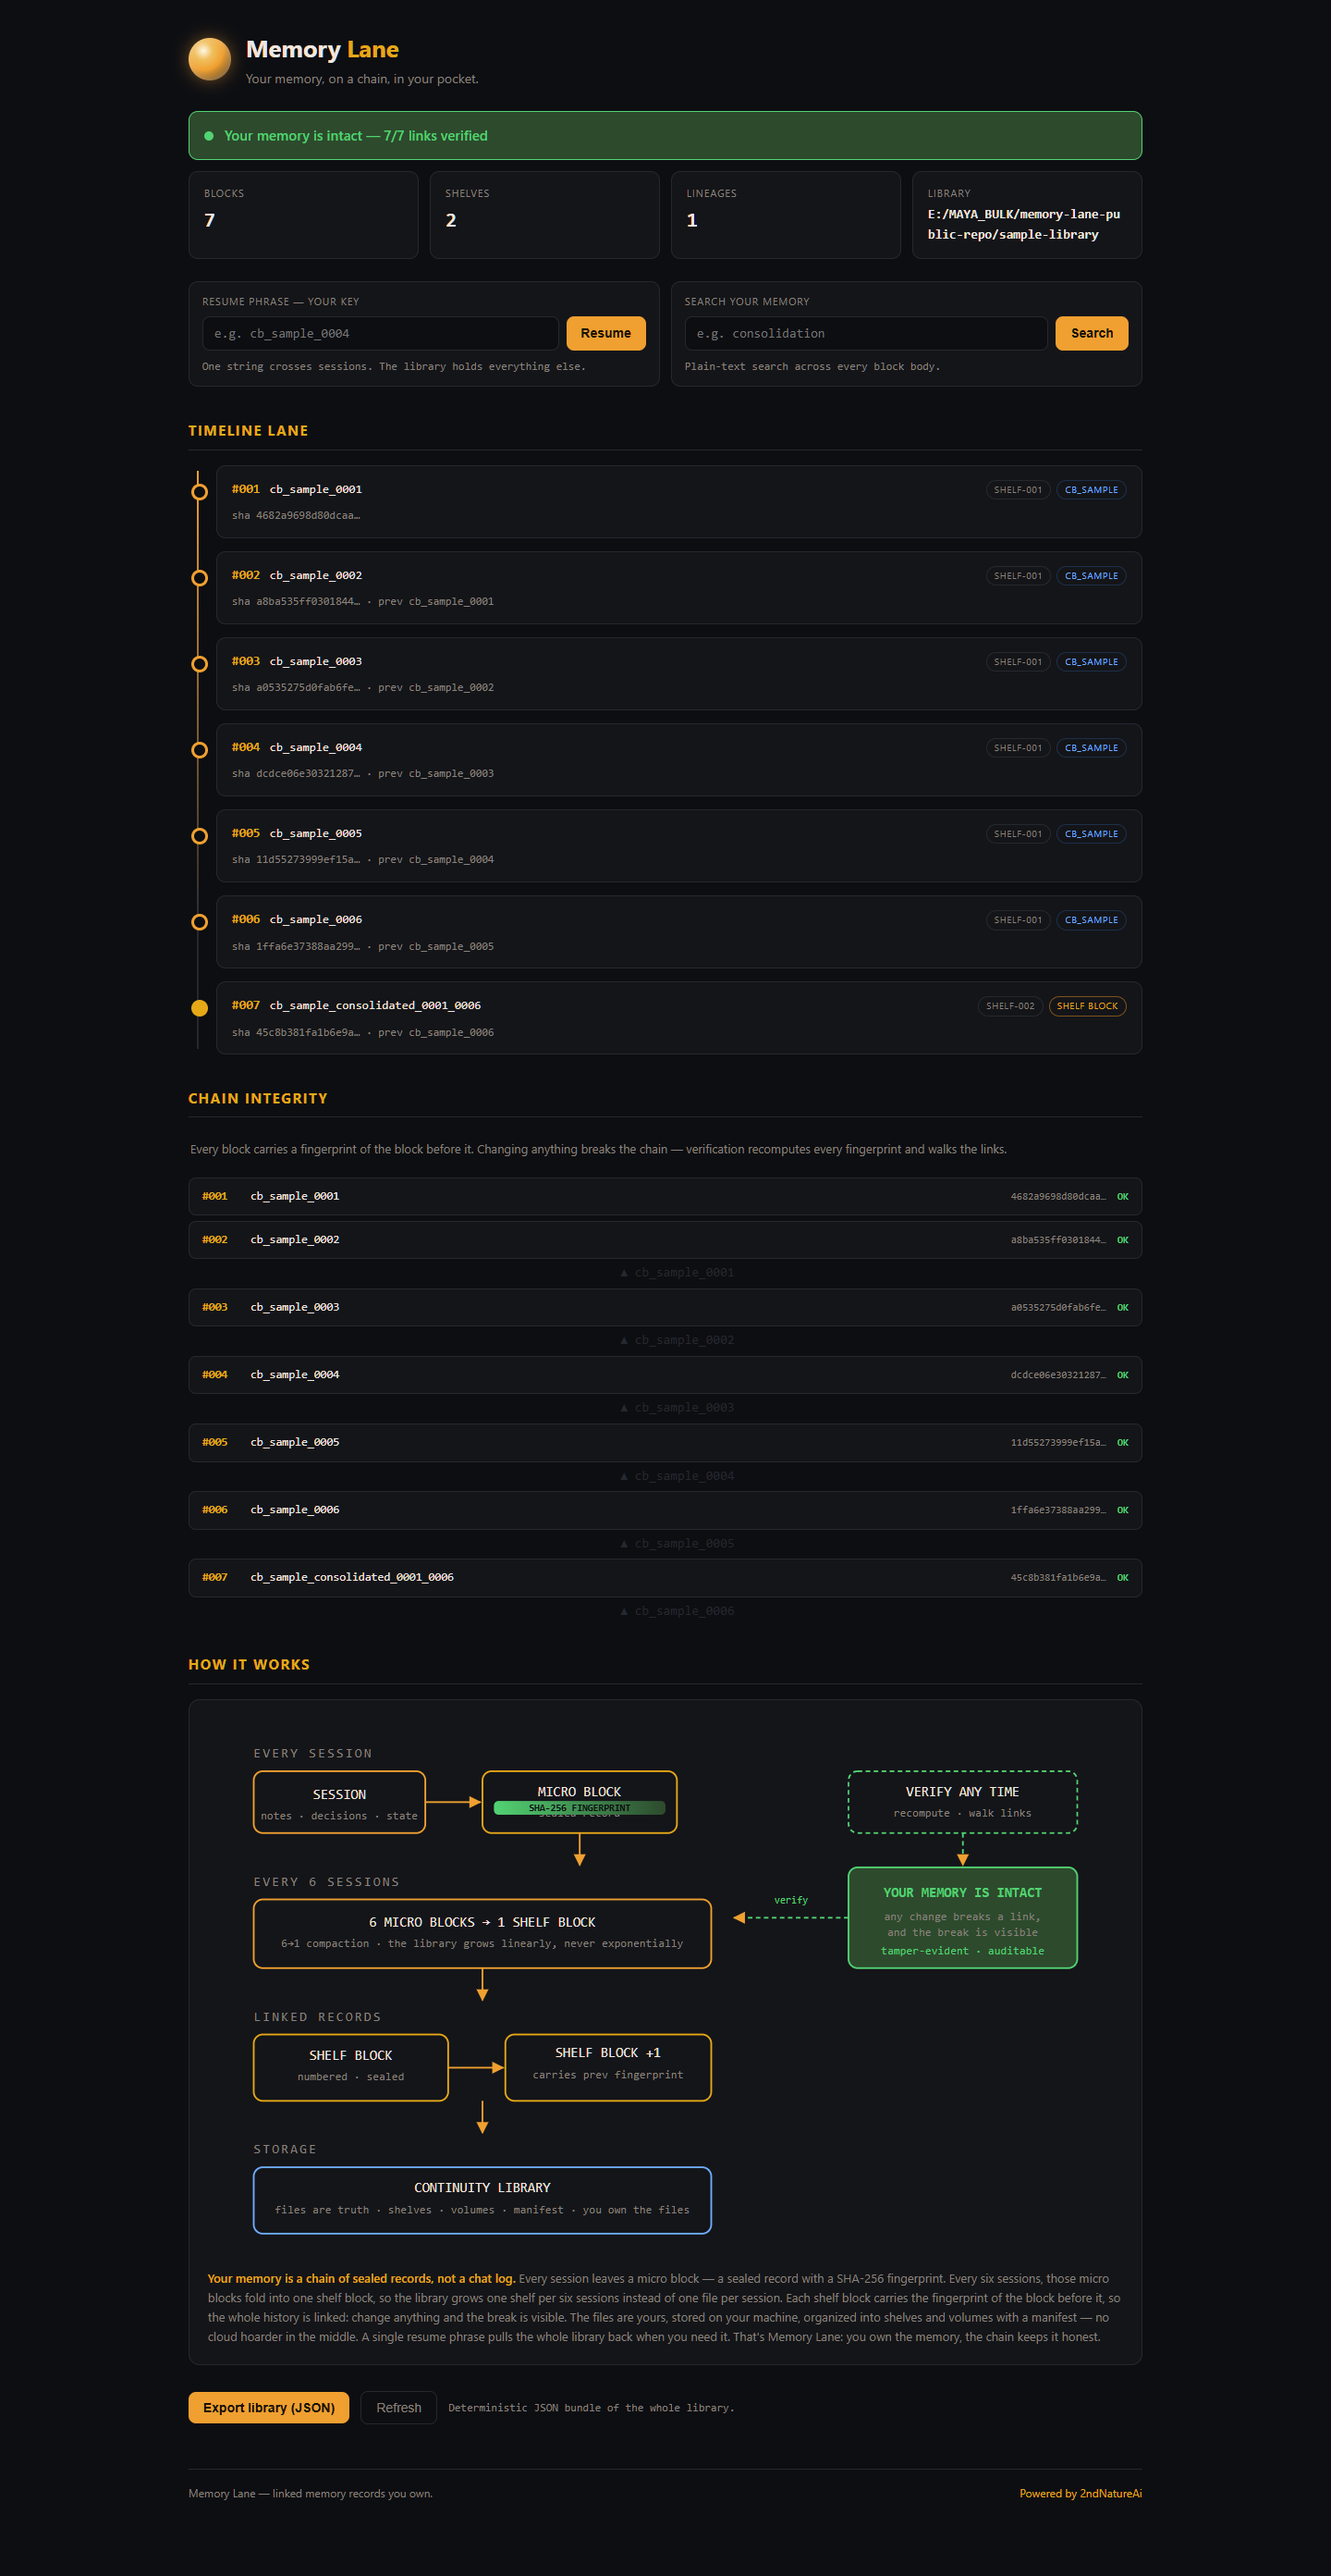
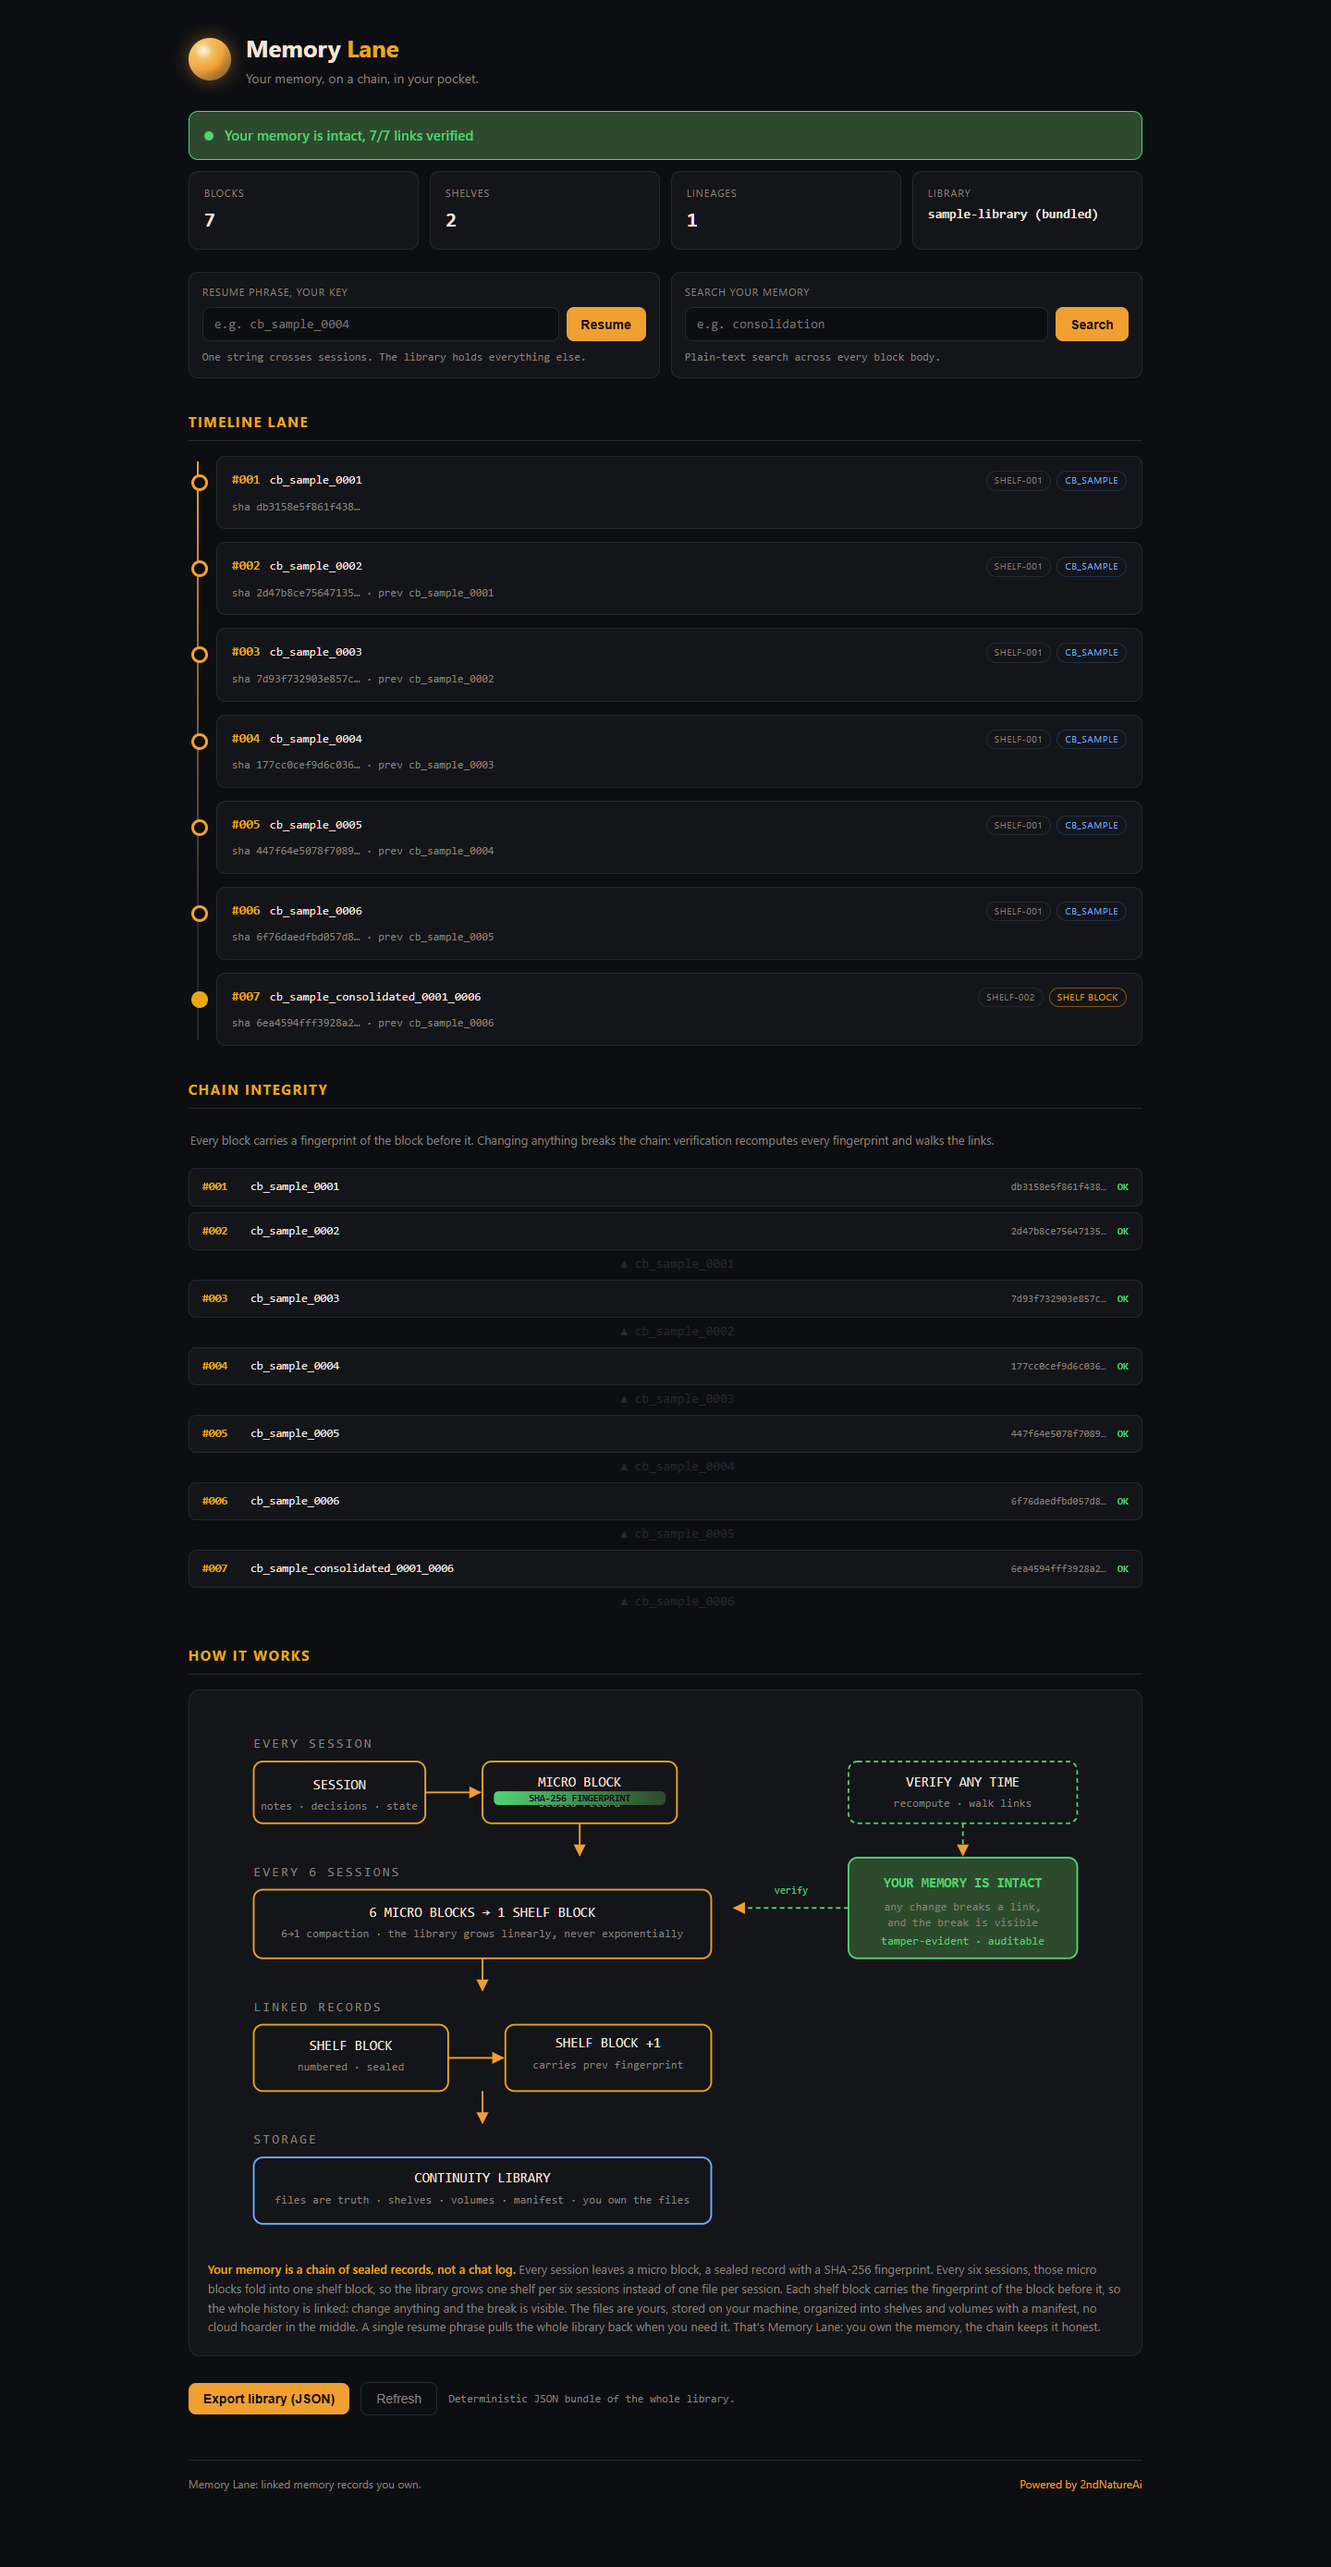
audit: public-safe pass — remove internal vocab from sample, machine-agnostic library label, support section, license fix, em-dash compliance, regression tests, drop machine-path dev tool

diff --git a/public/memory-lane.html b/public/memory-lane.html
@@ -3,7 +3,7 @@
 <head>
 <meta charset="UTF-8">
 <meta name="viewport" content="width=device-width, initial-scale=1.0">
-<title>Memory Lane — your memory, on a chain, in your pocket</title>
+<title>Memory Lane: your memory, on a chain, in your pocket</title>
 <style>
   :root {
     --bg: #0d0e12;
@@ -198,7 +198,7 @@
 
   <div class="controls">
     <div class="control">
-      <div class="label">Resume phrase — your key</div>
+      <div class="label">Resume phrase, your key</div>
       <div class="row">
         <input type="text" id="resumeInput" placeholder="e.g. cb_sample_0004">
         <button id="resumeBtn">Resume</button>
@@ -221,7 +221,7 @@
   <div class="lane" id="lane"><div class="empty">Loading…</div></div>
 
   <h2>Chain Integrity</h2>
-  <p class="empty" style="margin-bottom:12px;">Every block carries a fingerprint of the block before it. Changing anything breaks the chain — verification recomputes every fingerprint and walks the links.</p>
+  <p class="empty" style="margin-bottom:12px;">Every block carries a fingerprint of the block before it. Changing anything breaks the chain: verification recomputes every fingerprint and walks the links.</p>
   <div id="chainView"><div class="empty">Loading…</div></div>
 
   <h2>How It Works</h2>
@@ -301,7 +301,7 @@
       <text x="510" y="162" text-anchor="middle" fill="#52d273" font-size="9" font-family="monospace">verify</text>
     </svg>
     <div class="flow-caption">
-      <b>Your memory is a chain of sealed records, not a chat log.</b> Every session leaves a micro block — a sealed record with a SHA-256 fingerprint. Every six sessions, those micro blocks fold into one shelf block, so the library grows one shelf per six sessions instead of one file per session. Each shelf block carries the fingerprint of the block before it, so the whole history is linked: change anything and the break is visible. The files are yours, stored on your machine, organized into shelves and volumes with a manifest — no cloud hoarder in the middle. A single resume phrase pulls the whole library back when you need it. That's Memory Lane: you own the memory, the chain keeps it honest.
+      <b>Your memory is a chain of sealed records, not a chat log.</b> Every session leaves a micro block, a sealed record with a SHA-256 fingerprint. Every six sessions, those micro blocks fold into one shelf block, so the library grows one shelf per six sessions instead of one file per session. Each shelf block carries the fingerprint of the block before it, so the whole history is linked: change anything and the break is visible. The files are yours, stored on your machine, organized into shelves and volumes with a manifest, no cloud hoarder in the middle. A single resume phrase pulls the whole library back when you need it. That's Memory Lane: you own the memory, the chain keeps it honest.
     </div>
   </div>
 
@@ -312,7 +312,7 @@
   </div>
 
   <footer>
-    <span>Memory Lane — linked memory records you own.</span>
+    <span>Memory Lane: linked memory records you own.</span>
     <span class="powered">Powered by 2ndNatureAi</span>
   </footer>
 </div>
@@ -345,9 +345,9 @@ async function loadStatus() {
     $('sLineages').textContent = s.stats.lineageCount;
     $('sLibrary').textContent = s.library.replace(/\\/g, '/');
     if (s.chain.intact) {
-      setVerdict('good', 'Your memory is intact — ' + s.chain.okCount + '/' + s.chain.total + ' links verified');
+      setVerdict('good', 'Your memory is intact, ' + s.chain.okCount + '/' + s.chain.total + ' links verified');
     } else if (s.chain.status === 'unchecked') {
-      setVerdict('neutral', 'Chain verified except ' + s.chain.unchecked + ' unverifiable link(s) — no recorded fingerprint to compare');
+      setVerdict('neutral', 'Chain verified except ' + s.chain.unchecked + ' unverifiable link(s), no recorded fingerprint to compare');
     } else {
       setVerdict('bad', 'Chain issues: ' + s.chain.issues + ' of ' + s.chain.total + ' blocks need attention');
     }
@@ -425,7 +425,7 @@ async function loadChain() {
         <div class="chain-row">
           <span class="cnum">#${String(b.lib_id).padStart(3,'0')}</span>
           <span class="cbid">${esc(b.block_id)}</span>
-          <span class="csha">${esc(b.computedSha || '—')}…</span>
+          <span class="csha">${esc(b.computedSha || 'n/a')}…</span>
           <span class="cstat ${ok ? 'ok' : 'issue'}">${ok ? 'ok' : esc(b.status) + detail}</span>
         </div>`;
       if (b.prevBlockId && ok) {
@@ -447,7 +447,7 @@ async function doResume() {
   try {
     const d = await j('/api/resume?phrase=' + encodeURIComponent(phrase));
     if (d.found && d.blocks && d.blocks.length) {
-      box.innerHTML = '<div class="empty" style="margin-bottom:8px;">Resume phrase found — ' + d.blocks.length + ' block(s). Scroll to the timeline below.</div>' +
+      box.innerHTML = '<div class="empty" style="margin-bottom:8px;">Resume phrase found: ' + d.blocks.length + ' block(s). Scroll to the timeline below.</div>' +
         d.blocks.map((b) => `<div class="result" onclick="location.hash='#';document.querySelector('[data-id=&quot;' + ${b.lib_id} + '&quot;]').scrollIntoView({behavior:'smooth'})"><span class="rid">#${String(b.lib_id).padStart(3,'0')}</span> ${esc(b.block_id)}</div>`).join('');
     } else {
       box.innerHTML = '<div class="empty">No block matches that resume phrase.</div>';

diff --git a/README.md b/README.md
@@ -81,12 +81,29 @@ public/memory-lane.html      the interface (single file, zero deps)
 server.mjs                   zero-dependency HTTP server
 tools/make-sample-library.mjs  deterministic sample library generator
 sample-library/              the bundled demo library (7 blocks, regenerable)
-tests/                       36 tests across core + server
+tests/                       38 tests across core + server
 ```
+
+## Support & reporting issues
+
+Every MAYA product is a public beta. Expect rough edges and rapid iteration.
+
+Found a bug or a sharp edge? Open an issue on this repository. For anything sensitive, use GitHub's **Private vulnerability reporting** (see [SECURITY.md](SECURITY.md)). Never put credentials or private data in a public issue.
+
+If you want your own AI agent to investigate before you report, paste this into it:
+
+````text
+Investigate a bug report for the MAYA Memory Lane repository. Reproduce
+the issue locally if you can, then draft a bug report with: a concise
+summary, steps to reproduce, expected behavior, actual behavior, environment
+details (OS, Node version), and any relevant logs. Redact all credentials,
+API keys, and personal data before showing me the draft. Do not post
+anything anywhere without my explicit approval.
+````
 
 ## License
 
-MIT, see [LICENSE.txt](LICENSE.txt).
+2ndNatureAi Public Beta Evaluation License 1.0, see [LICENSE.txt](LICENSE.txt).
 
 ---
 

diff --git a/sample-library/blocks/micro-2026-07/cb_sample_0001.md b/sample-library/blocks/micro-2026-07/cb_sample_0001.md
@@ -1,7 +1,7 @@
 ---
 artifact_type: memory_block
 block_id: cb_sample_0001
-display_name: "Founder Notes"
+display_name: "Product Notes"
 block_number: 1
 status: active
 timestamp: "2026-07-21T23:00:00Z"
@@ -12,11 +12,11 @@ processing_provider: local
 previous_block: none
 ---
 
-# Sample Micro Block 001 — Founder Notes
+# Sample Micro Block 001 — Product Notes
 
 ## Session Scope
 
-First sample session. The founder captured a set of product notes for the memory layer and filed them as the first micro block. This is the shape every session leaves behind: a sealed record with a fingerprint.
+First sample session. The user captured a set of product notes for the memory layer and filed them as the first micro block. This is the shape every session leaves behind: a sealed record with a fingerprint.
 
 ## Completed — Do Not Rerun
 

diff --git a/sample-library/shelves/shelf-001/block-001.md b/sample-library/shelves/shelf-001/block-001.md
@@ -1,7 +1,7 @@
 ---
 artifact_type: memory_block
 block_id: cb_sample_0001
-display_name: "Founder Notes"
+display_name: "Product Notes"
 block_number: 1
 status: active
 timestamp: "2026-07-21T23:00:00Z"
@@ -12,11 +12,11 @@ processing_provider: local
 previous_block: none
 ---
 
-# Sample Micro Block 001 — Founder Notes
+# Sample Micro Block 001 — Product Notes
 
 ## Session Scope
 
-First sample session. The founder captured a set of product notes for the memory layer and filed them as the first micro block. This is the shape every session leaves behind: a sealed record with a fingerprint.
+First sample session. The user captured a set of product notes for the memory layer and filed them as the first micro block. This is the shape every session leaves behind: a sealed record with a fingerprint.
 
 ## Completed — Do Not Rerun
 

diff --git a/sample-library/blocks/micro-2026-07/cb_sample_0004.md b/sample-library/blocks/micro-2026-07/cb_sample_0004.md
@@ -1,7 +1,7 @@
 ---
 artifact_type: memory_block
 block_id: cb_sample_0004
-display_name: "Staff Briefing"
+display_name: "Team Briefing"
 block_number: 4
 status: active
 timestamp: "2026-07-24T23:00:00Z"
@@ -12,11 +12,11 @@ processing_provider: local
 previous_block: cb_sample_0003
 ---
 
-# Sample Micro Block 004 — Staff Briefing
+# Sample Micro Block 004 — Team Briefing
 
 ## Session Scope
 
-Drafted the weekly team memo for the MAYA staff. The memo board is the default reading surface; the continuity library is the record of how decisions were reached.
+Drafted the weekly team memo. Shared notes are the default reading surface; the continuity library is the record of how decisions were reached.
 
 ## Completed — Do Not Rerun
 

diff --git a/sample-library/shelves/shelf-001/block-004.md b/sample-library/shelves/shelf-001/block-004.md
@@ -1,7 +1,7 @@
 ---
 artifact_type: memory_block
 block_id: cb_sample_0004
-display_name: "Staff Briefing"
+display_name: "Team Briefing"
 block_number: 4
 status: active
 timestamp: "2026-07-24T23:00:00Z"
@@ -12,11 +12,11 @@ processing_provider: local
 previous_block: cb_sample_0003
 ---
 
-# Sample Micro Block 004 — Staff Briefing
+# Sample Micro Block 004 — Team Briefing
 
 ## Session Scope
 
-Drafted the weekly team memo for the MAYA staff. The memo board is the default reading surface; the continuity library is the record of how decisions were reached.
+Drafted the weekly team memo. Shared notes are the default reading surface; the continuity library is the record of how decisions were reached.
 
 ## Completed — Do Not Rerun
 

diff --git a/sample-library/blocks/micro-2026-07/cb_sample_0005.md b/sample-library/blocks/micro-2026-07/cb_sample_0005.md
@@ -1,7 +1,7 @@
 ---
 artifact_type: memory_block
 block_id: cb_sample_0005
-display_name: "Public Repo Pass"
+display_name: "Release Prep"
 block_number: 5
 status: active
 timestamp: "2026-07-25T23:00:00Z"
@@ -12,11 +12,11 @@ processing_provider: local
 previous_block: cb_sample_0004
 ---
 
-# Sample Micro Block 005 — Public Repo Pass
+# Sample Micro Block 005 — Release Prep
 
 ## Session Scope
 
-Prepared a public product repo for the MAYA-Platform organization. Same quality bar as the rest of the family: README, screenshot, tests, license, security policy.
+Prepared a public product repo for release. Same quality bar as the rest of the family: README, screenshot, tests, license, security policy.
 
 ## Completed — Do Not Rerun
 

diff --git a/sample-library/shelves/shelf-001/block-005.md b/sample-library/shelves/shelf-001/block-005.md
@@ -1,7 +1,7 @@
 ---
 artifact_type: memory_block
 block_id: cb_sample_0005
-display_name: "Public Repo Pass"
+display_name: "Release Prep"
 block_number: 5
 status: active
 timestamp: "2026-07-25T23:00:00Z"
@@ -12,11 +12,11 @@ processing_provider: local
 previous_block: cb_sample_0004
 ---
 
-# Sample Micro Block 005 — Public Repo Pass
+# Sample Micro Block 005 — Release Prep
 
 ## Session Scope
 
-Prepared a public product repo for the MAYA-Platform organization. Same quality bar as the rest of the family: README, screenshot, tests, license, security policy.
+Prepared a public product repo for release. Same quality bar as the rest of the family: README, screenshot, tests, license, security policy.
 
 ## Completed — Do Not Rerun
 

diff --git a/sample-library/blocks/micro-2026-07/cb_sample_0006.md b/sample-library/blocks/micro-2026-07/cb_sample_0006.md
@@ -16,7 +16,7 @@ previous_block: cb_sample_0005
 
 ## Session Scope
 
-Logged the market validation notes for the agent-memory category. Six micro-blocks now sit in the chain — the next consolidation pass will fold them into one canonical shelf block.
+Logged the market validation notes for the agent-memory category. Six micro blocks now sit in the chain; the next consolidation pass will fold them into one canonical shelf block.
 
 ## Completed — Do Not Rerun
 

diff --git a/sample-library/shelves/shelf-001/block-006.md b/sample-library/shelves/shelf-001/block-006.md
@@ -16,7 +16,7 @@ previous_block: cb_sample_0005
 
 ## Session Scope
 
-Logged the market validation notes for the agent-memory category. Six micro-blocks now sit in the chain — the next consolidation pass will fold them into one canonical shelf block.
+Logged the market validation notes for the agent-memory category. Six micro blocks now sit in the chain; the next consolidation pass will fold them into one canonical shelf block.
 
 ## Completed — Do Not Rerun
 

diff --git a/sample-library/shelves/shelf-002/block-007.md b/sample-library/shelves/shelf-002/block-007.md
@@ -6,7 +6,7 @@ block_number: 7
 status: active
 topic: consolidation
 previous_block: cb_sample_0006
-previous_hash: 1ffa6e37388aa2995384606433aef1877cef77590ec4b5cc9be0fafdc2596a2c
+previous_hash: 6f76daedfbd057d898e6600893a5179738e1e5eafb8a2da722b96f19e764b845
 timestamp: "2026-08-01T00:00:00Z"
 purpose: consolidated_shelf_record
 actor: system
